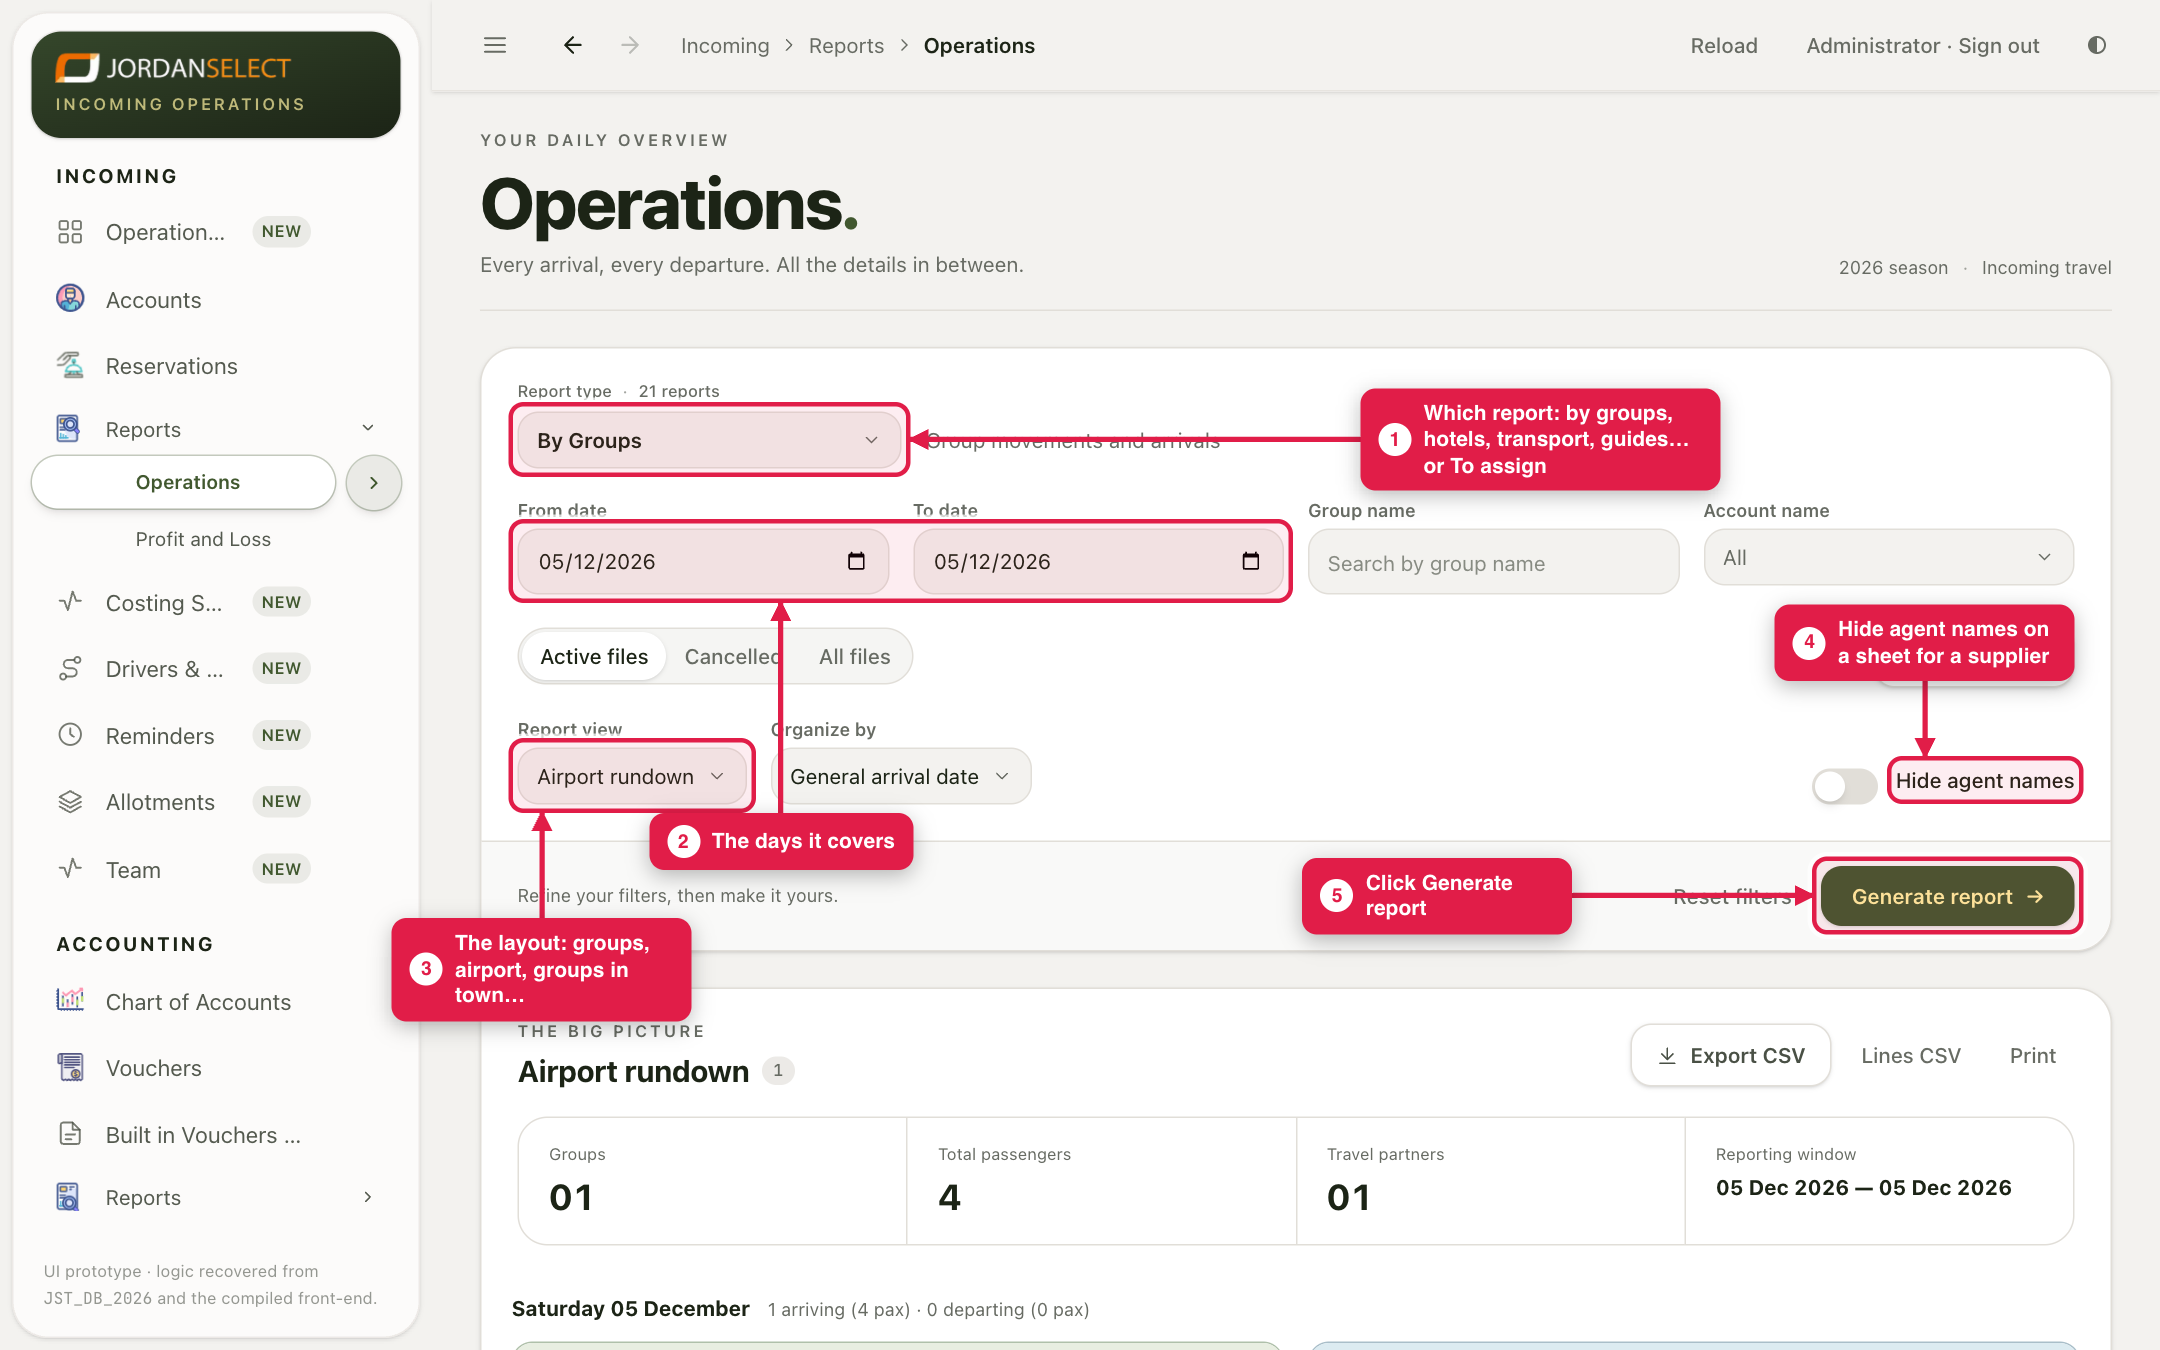
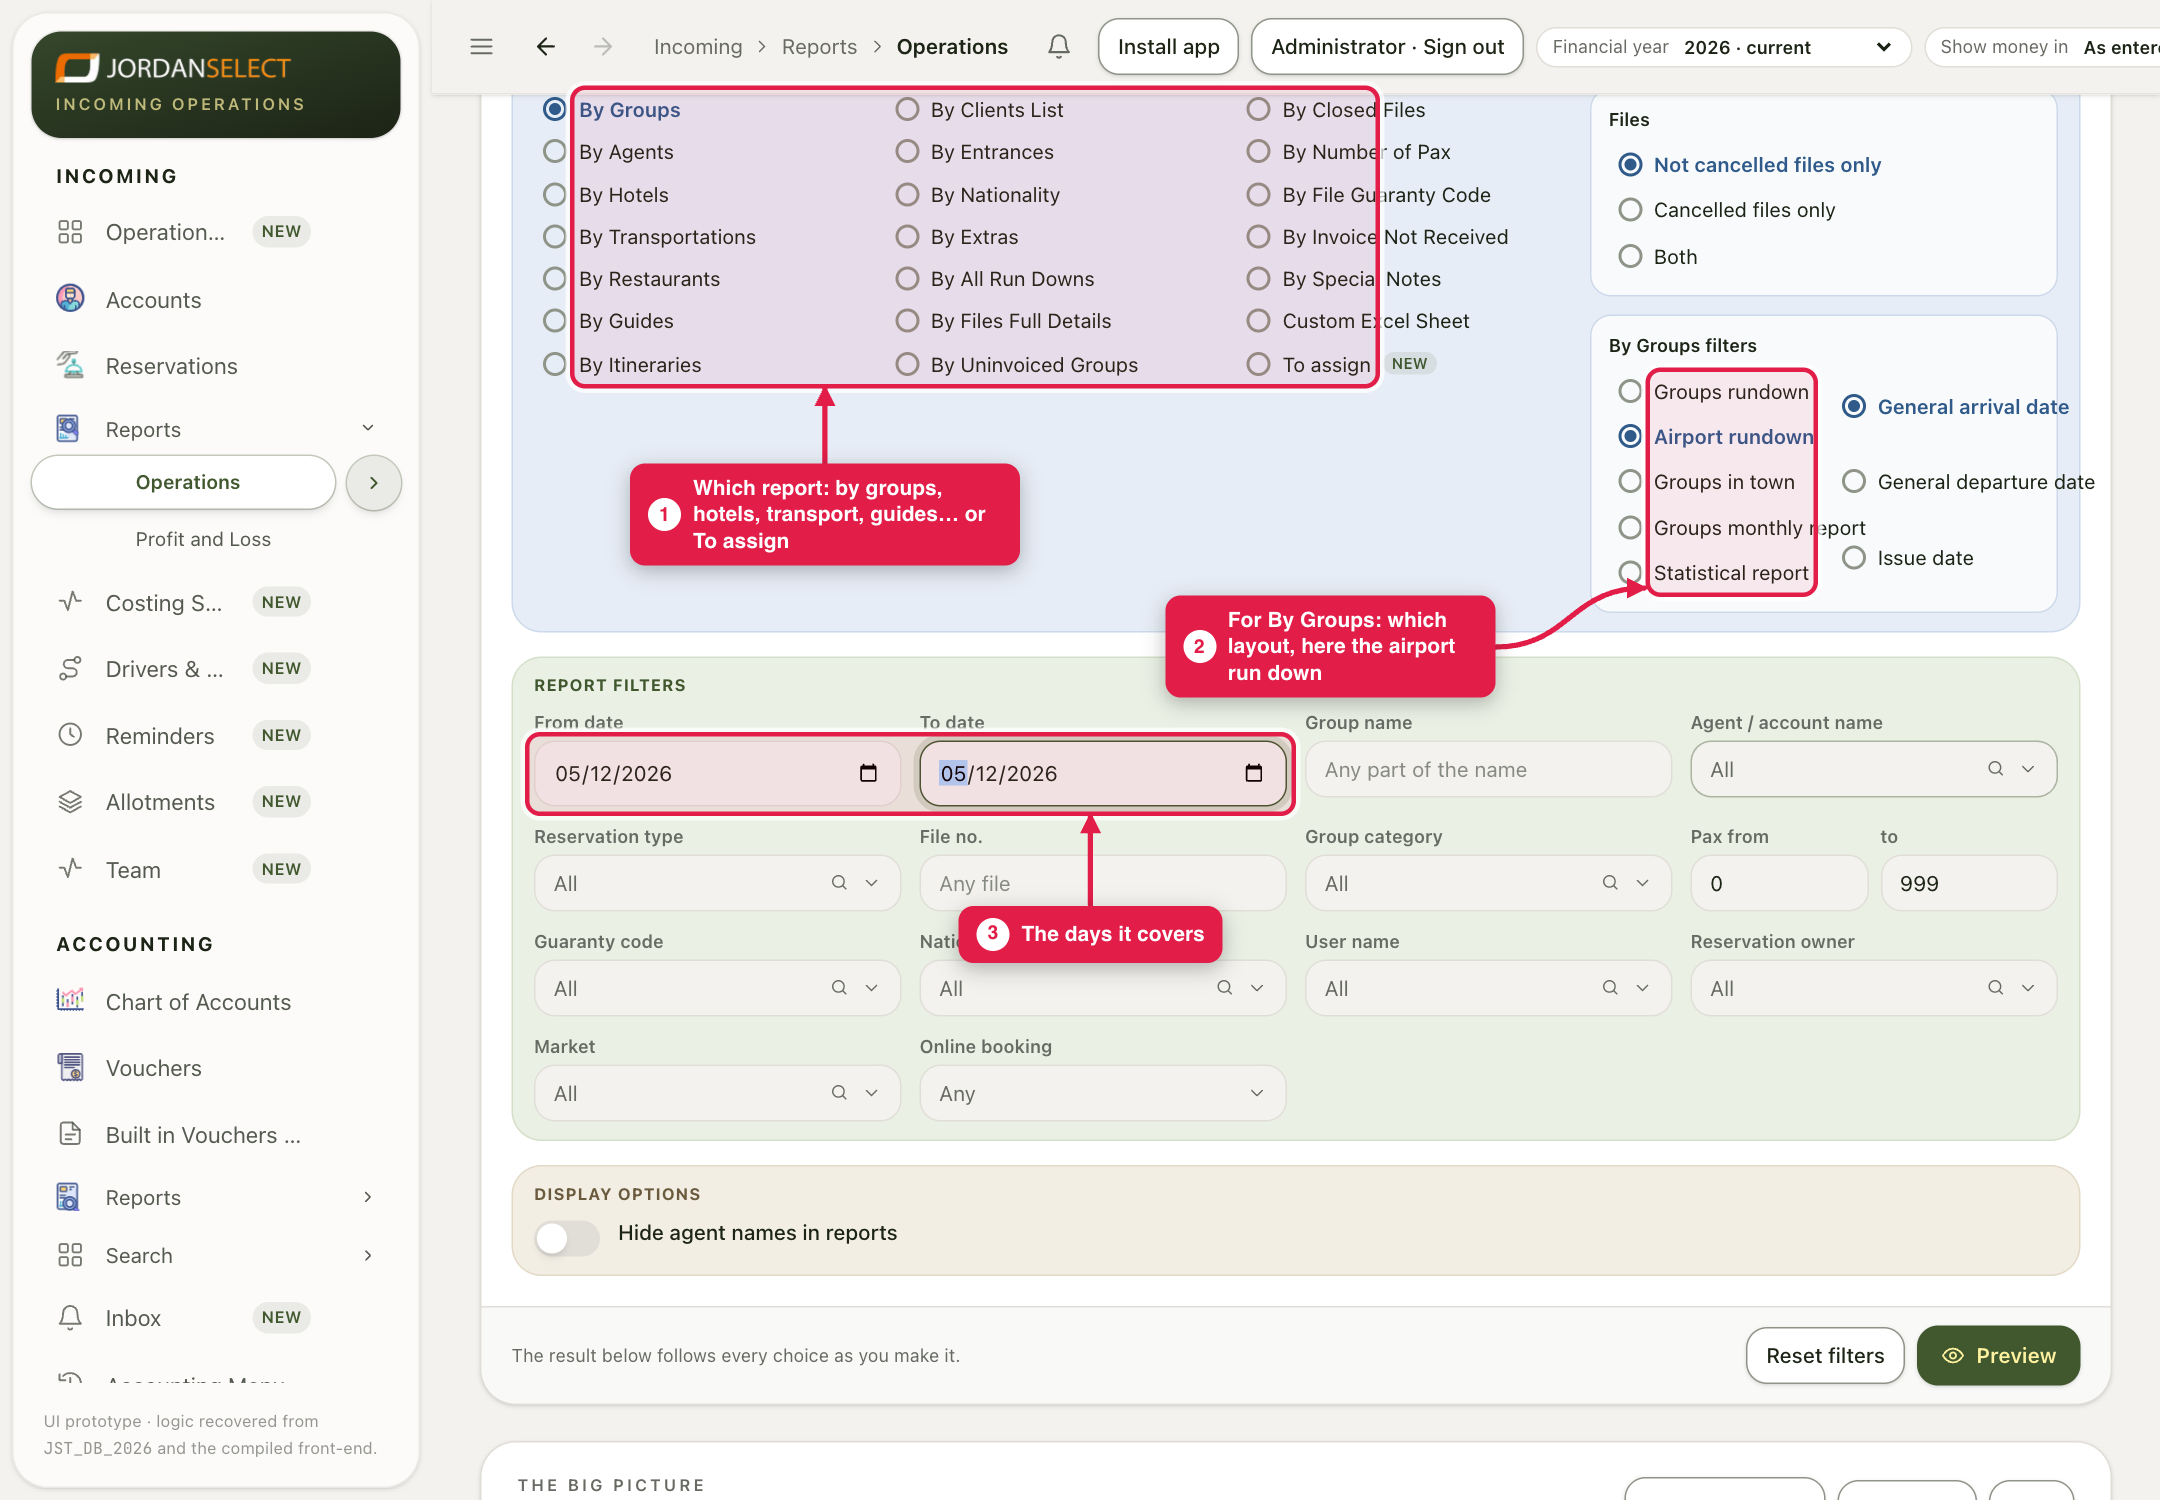
Handbooks checked against the CRM of 11 Nov: run down reports as the new Operations screen, cancel and reinstate with the folded panels, New Reservation / New Account / Advanced Search, fresh pictures where the screens changed

diff --git a/handbooks/operations/06-run-down-reports.html b/handbooks/operations/06-run-down-reports.html
@@ -14,25 +14,25 @@
 </div>
 
 <h2>How it works</h2>
-<p>One screen holds all 21 operations reports. Choose the report and the days, then <b>Generate report</b>. It opens as a sheet you can print or save as a PDF. <b>Export CSV</b> gives the same rows for Excel.</p>
+<p>One screen holds all 21 operations reports. Pick the report and the days: the result appears under the filters straight away and follows every change you make. <b>Print</b> prints it or saves it as a PDF. <b>Export CSV</b> gives the same rows for Excel.</p>
 <p>Examples in this guide: the <b>airport run down</b> for 5 December, and <b>To assign</b> for the whole of December.</p>
 
 <h2>1. Choose the report</h2>
-<div class="keep"><div class="step"><div class="n">1</div><div>Open <b>Reports → Operations</b>. Pick the <b>Report type</b>: by groups, agents, hotels, transport, guides, restaurants… or <b>To assign</b>.</div></div>
-<div class="step"><div class="n">2</div><div>Set <b>From date</b> and <b>To date</b>. Narrow by group name or agent if you need to.</div></div>
-<div class="step"><div class="n">3</div><div>For the groups reports, pick the <b>Report view</b>: groups run down, <b>airport run down</b>, groups in town, monthly or statistical.</div></div>
-<div class="step"><div class="n">4</div><div>Sending it to a supplier? Turn on <b>Hide agent names</b>. Then click <span class="btn">Generate report</span>.</div></div>
-<figure class="fig"><img src="img/06/01-form.png"><figcaption>The filters. Organize by chooses which date counts: arrival, departure or issue.</figcaption></figure></div>
+<div class="keep"><div class="step"><div class="n">1</div><div>Open <b>Reports → Operations</b>. Tick the report you want: by groups, agents, hotels, transport, guides, restaurants… or <b>To assign</b>.</div></div>
+<div class="step"><div class="n">2</div><div>For <b>By Groups</b>, tick the layout on the right: groups run down, <b>airport run down</b>, groups in town, monthly or statistical. Next to it, choose which date counts: arrival, departure or issue.</div></div>
+<div class="step"><div class="n">3</div><div>Set <b>From date</b> and <b>To date</b>. Narrow by group name, agent, file number or reservation owner if you need to. <b>Reset filters</b> clears them all.</div></div>
+<figure class="fig"><img src="img/06/01-form.png"><figcaption>Cancelled files are left out unless you choose otherwise under <b>Files</b>.</figcaption></figure></div>
 
 <h2>2. Print it</h2>
-<div class="keep"><div class="step"><div class="n">5</div><div>The report opens as a sheet. Click <span class="btn">Print</span>, and in the print window choose your printer or <b>Save as PDF</b>. <b>Close</b> takes you back to the filters.</div></div>
+<div class="keep"><div class="step"><div class="n">4</div><div>Sending it to a supplier? Turn on <b>Hide agent names in reports</b>.</div></div>
+<div class="step"><div class="n">5</div><div>The report is under the filters. Click <span class="btn">Print</span>, and in the print window choose your printer or <b>Save as PDF</b>. <span class="btn">Preview</span> shows it as the printed sheet first.</div></div>
 <figure class="fig"><img src="img/06/02-airport.png"><figcaption>The airport run down for 5 December: who lands, when, on which flight, how many.</figcaption></figure></div>
 
 <h2>3. To assign</h2>
-<div class="keep"><div class="step"><div class="n">6</div><div>Choose <b>To assign</b> as the report type to list every transport and guide line still without a company or guide, by day, with what Sales asked for.</div></div>
-<figure class="fig"><img src="img/06/03-to-assign.png"><figcaption>December’s To assign list. File 14’s transfer is not on it any more (guide 2).</figcaption></figure></div>
+<div class="keep"><div class="step"><div class="n">6</div><div>Tick <b>To assign</b> to list every transport and guide line still without a company or guide, by day, with what Sales asked for.</div></div>
+<figure class="fig"><img src="img/06/03-to-assign.png"><figcaption>December’s To assign list. File 14’s transfer is not on it: it was assigned in guide 2.</figcaption></figure></div>
 
 <div class="box tip"><b class="t">Every morning</b>Run <b>To assign</b> for the next two weeks. An empty list means every transfer and guide is booked.</div>
 
-<div class="foot">Questions? Ask the operations manager. · Last checked: ____ · Screens shown are from a test copy of the CRM with made-up data.</div>
+<div class="foot">Questions? Ask the operations manager. · Last checked: 11 Nov 2026 · Screens shown are from a test copy of the CRM with made-up data.</div>
 </body></html>

diff --git a/handbooks/operations/08-cancel-or-reinstate.html b/handbooks/operations/08-cancel-or-reinstate.html
@@ -18,13 +18,13 @@
 <p>Example in this guide: file 17 (Example Group C — weekly, 26 December) is cancelled because the agent cancelled that departure, then reinstated.</p>
 
 <h2>1. Cancel the file</h2>
-<div class="keep"><div class="step"><div class="n">1</div><div>Open the file. The <b>What’s stopping this</b> panel says whether you may cancel, and lists anything in the way. Click <span class="btn">Cancel</span> in the button row.</div></div>
+<div class="keep"><div class="step"><div class="n">1</div><div>Open the file. The <b>What’s stopping this</b> bar says whether you may cancel. Click it to see the details and anything in the way. Click <span class="btn">Cancel</span> in the button row.</div></div>
 <figure class="fig"><img src="img/08/01-stopping.png"><figcaption>Cancel allowed. Delete is blocked because a booking holds a confirmation number.</figcaption></figure></div>
 
 <div class="keep"><div class="step"><div class="n">2</div><div>Type the <b>reason</b> in a few words and click <span class="btn">Yes, cancel this file</span>. “Keep file” changes nothing.</div></div>
 <figure class="fig"><img src="img/08/02-reason.png"><figcaption>The reason is kept on the file for everyone to see.</figcaption></figure></div>
 
-<div class="keep"><div class="step"><div class="n">3</div><div>The file shows <b>Cancelled</b> with the reason. In Reservations it moves from Live to Cancelled, and on the file <b>Reinstate</b> takes the place of Cancel.</div></div>
+<div class="keep"><div class="step"><div class="n">3</div><div>The file shows <b>Cancelled</b>. The reason is under the yellow <b>warnings</b> bar: click it to open. In Reservations it moves from Live to Cancelled, and on the file <b>Reinstate</b> takes the place of Cancel.</div></div>
 <figure class="fig"><img src="img/08/03-cancelled.png"><figcaption>Find it again in Reservations under Show: Cancelled or All.</figcaption></figure></div>
 
 <div class="box warn"><b class="t">Cancelling the file does not cancel the bookings</b>The hotel stays booked, the transfer stays on the file, and nobody is told. E-mail each hotel, transport company and guide on the file yourself, and mark their lines <b>Optional / Cancelled</b> once they have agreed.</div>
@@ -41,5 +41,5 @@
 <tr><td>Cannot be reinstated</td><td>A credit note or refund has been posted. Open a new file for the group.</td></tr>
 </table>
 
-<div class="foot">Questions? Ask the operations manager. · Last checked: ____ · Screens shown are from a test copy of the CRM with made-up data.</div>
+<div class="foot">Questions? Ask the operations manager. · Last checked: 11 Nov 2026 · Screens shown are from a test copy of the CRM with made-up data.</div>
 </body></html>

diff --git a/handbooks/sales/08-find-a-file.html b/handbooks/sales/08-find-a-file.html
@@ -14,7 +14,7 @@
 </div>
 
 <h2>How it works</h2>
-<p>The search box at the top of Reservations finds most files. <b>A. Search</b> (advanced search) is for when you need more: a client name only, or arrivals between two dates.</p>
+<p>The search box at the top of Reservations finds most files. <b>Advanced Search</b> is for when you need more: a client name only, or arrivals between two dates.</p>
 <p>Example in this guide: the agent asks about “the Rossi booking”. Searching <b>Rossi</b> finds file 14 and its three copies.</p>
 
 <h2>1. Quick search</h2>
@@ -23,7 +23,7 @@
 <figure class="fig"><img src="img/08/01-search.png"><figcaption>The count on the right says how many files match.</figcaption></figure></div>
 
 <h2>2. Advanced search</h2>
-<div class="keep"><div class="step"><div class="n">3</div><div>Click <span class="btn">A. Search</span>. Fill any of the fields; the list at the bottom narrows as you type. To look for arrivals in a period, fill <b>Arrival from</b> and <b>Arrival to</b>. Turn on <b>Include cancelled files</b> if you need those too.</div></div>
+<div class="keep"><div class="step"><div class="n">3</div><div>Click <span class="btn">Advanced Search</span>. Fill any of the fields; the list at the bottom narrows as you type. To look for arrivals in a period, fill <b>Arrival from</b> and <b>Arrival to</b>. Turn on <b>Include cancelled files</b> if you need those too.</div></div>
 <figure class="fig"><img src="img/08/02-advanced.png"><figcaption>Advanced Search, here by the agent’s reference. Click a file in the list to open it.</figcaption></figure></div>
 
 <h2>3. Open the file</h2>
@@ -32,5 +32,5 @@
 
 <div class="box tip"><b class="t">Searching for a number?</b>Typing the file number in the quick search finds it at once. The agent’s reference works too, so ask the agent for theirs.</div>
 
-<div class="foot">Questions? Ask the reservations manager. · Last checked: ____ · Screens shown are from a test copy of the CRM with made-up data.</div>
+<div class="foot">Questions? Ask the reservations manager. · Last checked: 11 Nov 2026 · Screens shown are from a test copy of the CRM with made-up data.</div>
 </body></html>

diff --git a/handbooks/sales/01-add-an-agent.html b/handbooks/sales/01-add-an-agent.html
@@ -20,7 +20,7 @@
 <div class="box tip"><b class="t">Look first</b>Search the Accounts list for the agency’s name before you add it. Two accounts for one agent split their invoices and payments in two.</div>
 
 <h2>1. Open a new account</h2>
-<div class="keep"><div class="step"><div class="n">1</div><div>Open <b>Incoming → Accounts</b> and click <span class="btn">New</span>.</div></div>
+<div class="keep"><div class="step"><div class="n">1</div><div>Open <b>Incoming → Accounts</b> and click <span class="btn">New Account</span>.</div></div>
 <figure class="fig"><img src="img/01/01-accounts.png"><figcaption>The Accounts list. The tabs along the top filter by kind: Agents, Hotels, Transportations and so on.</figcaption></figure></div>
 
 <div class="keep"><div class="step"><div class="n">2</div><div>Type the agency’s <b>company name</b>. Set <b>Main Account</b> to <b>Agents</b> and <b>Group</b> to <b>AG — Agents</b>. Then fill the <b>phone</b> and the <b>e-mail</b> they use for bookings, and the contact person.</div></div>
@@ -42,5 +42,5 @@
 <li>Credit limit and payment days match what you agreed.</li>
 </ul>
 
-<div class="foot">Questions? Ask the reservations manager. · Last checked: ____ · Screens shown are from a test copy of the CRM with made-up data.</div>
+<div class="foot">Questions? Ask the reservations manager. · Last checked: 11 Nov 2026 · Screens shown are from a test copy of the CRM with made-up data.</div>
 </body></html>

diff --git a/handbooks/sales/02-create-a-file.html b/handbooks/sales/02-create-a-file.html
@@ -18,7 +18,7 @@
 <p>Example in this guide: <b>Example Group C</b>, the Rossi family and friends, sent by Example Holidays Ltd (their ref <b>EH-2026-118</b>). 4 adults, Italian, 5 to 9 December 2026, flights RJ 102 in and RJ 101 out, 30% profit.</p>
 
 <h2>1. Open a new file</h2>
-<div class="keep"><div class="step"><div class="n">1</div><div>Open <b>Incoming → Reservations</b> and click <span class="btn">New</span>.</div></div>
+<div class="keep"><div class="step"><div class="n">1</div><div>Open <b>Incoming → Reservations</b> and click <span class="btn">New Reservation</span>.</div></div>
 <figure class="fig"><img src="img/02/01-reservations.png"><figcaption>The Reservations list. Every file, newest first.</figcaption></figure></div>
 
 <div class="keep"><div class="step"><div class="n">2</div><div>Type a <b>Group Name</b> everyone will recognise, and the client’s name. Pick the <b>Agent</b> and type the agent’s own reference for the booking.</div></div>
@@ -41,5 +41,5 @@
 <li>The owner is the person who will follow the booking.</li>
 </ul>
 
-<div class="foot">Questions? Ask the reservations manager. · Last checked: ____ · Screens shown are from a test copy of the CRM with made-up data.</div>
+<div class="foot">Questions? Ask the reservations manager. · Last checked: 11 Nov 2026 · Screens shown are from a test copy of the CRM with made-up data.</div>
 </body></html>

diff --git a/handbooks/operations/04-who-is-free.html b/handbooks/operations/04-who-is-free.html
@@ -31,5 +31,5 @@
 
 <div class="box tip"><b class="t">Print or Excel</b>Print or Excel at the top gives you the board as it is, for the desk or to send to a company.</div>
 
-<div class="foot">Questions? Ask the operations manager. · Last checked: ____ · Screens shown are from a test copy of the CRM with made-up data.</div>
+<div class="foot">Questions? Ask the operations manager. · Last checked: 11 Nov 2026 · Screens shown are from a test copy of the CRM with made-up data.</div>
 </body></html>
